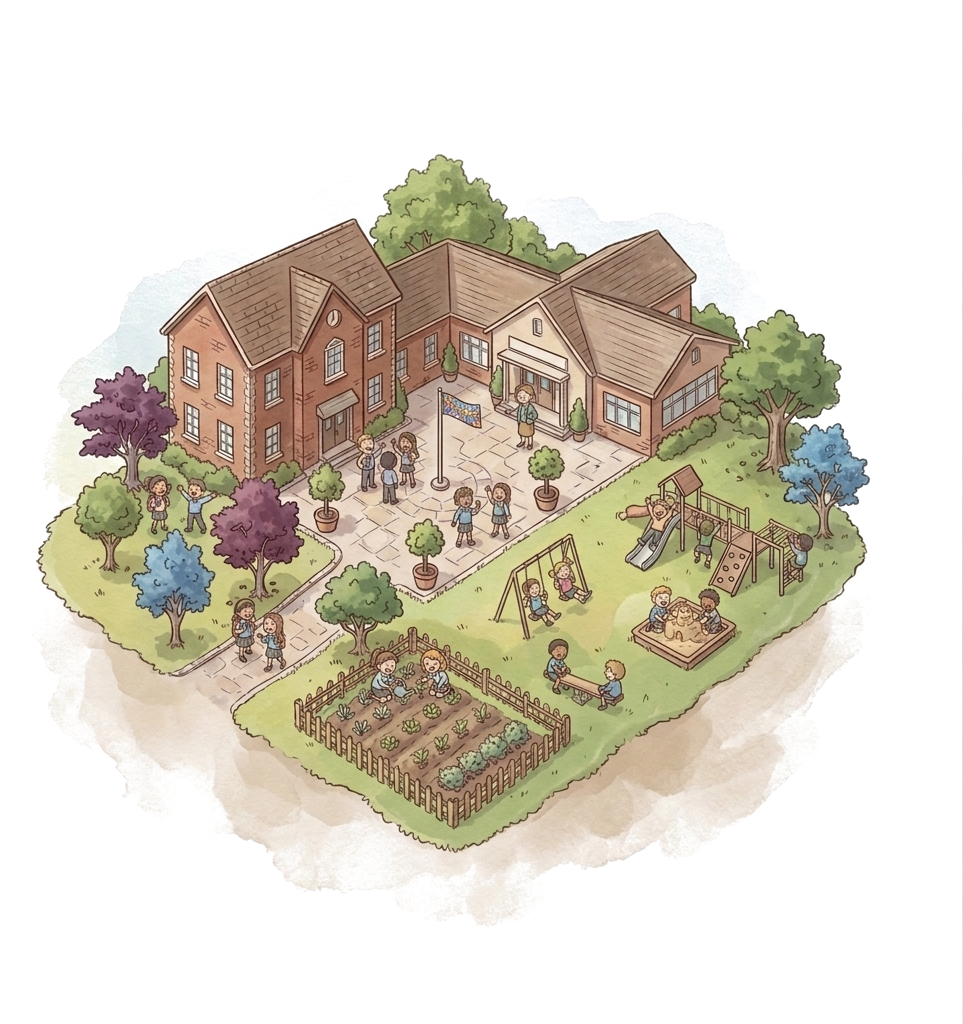
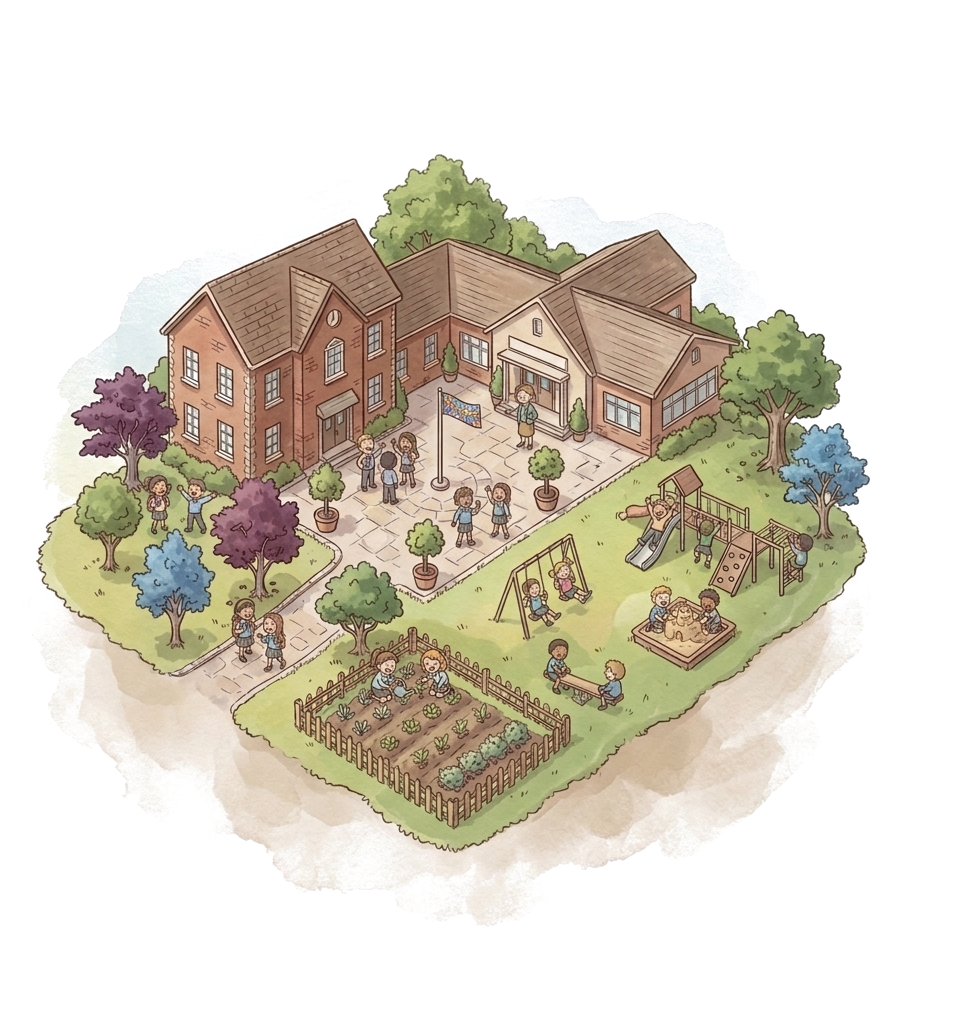
Remove the grey line on the right of the After-School Club picture.
The last column of that illustration was a solid grey hairline. The Game page now uses the cropped picture and asks browsers to fetch it again.

diff --git a/game/index.html b/game/index.html
@@ -30,7 +30,7 @@
       </li>
       <li>
         <a class="world" href="clue-hunt/">
-          <img src="illust/after-school-club.png" alt="" width="963" height="1024"/>
+          <img src="illust/after-school-club.png?v=2" alt="" width="962" height="1024"/>
           <span class="world-name">After-School Club <span class="world-zh" lang="zh-Hant">神秘校園日常</span></span>
         </a>
       </li>
